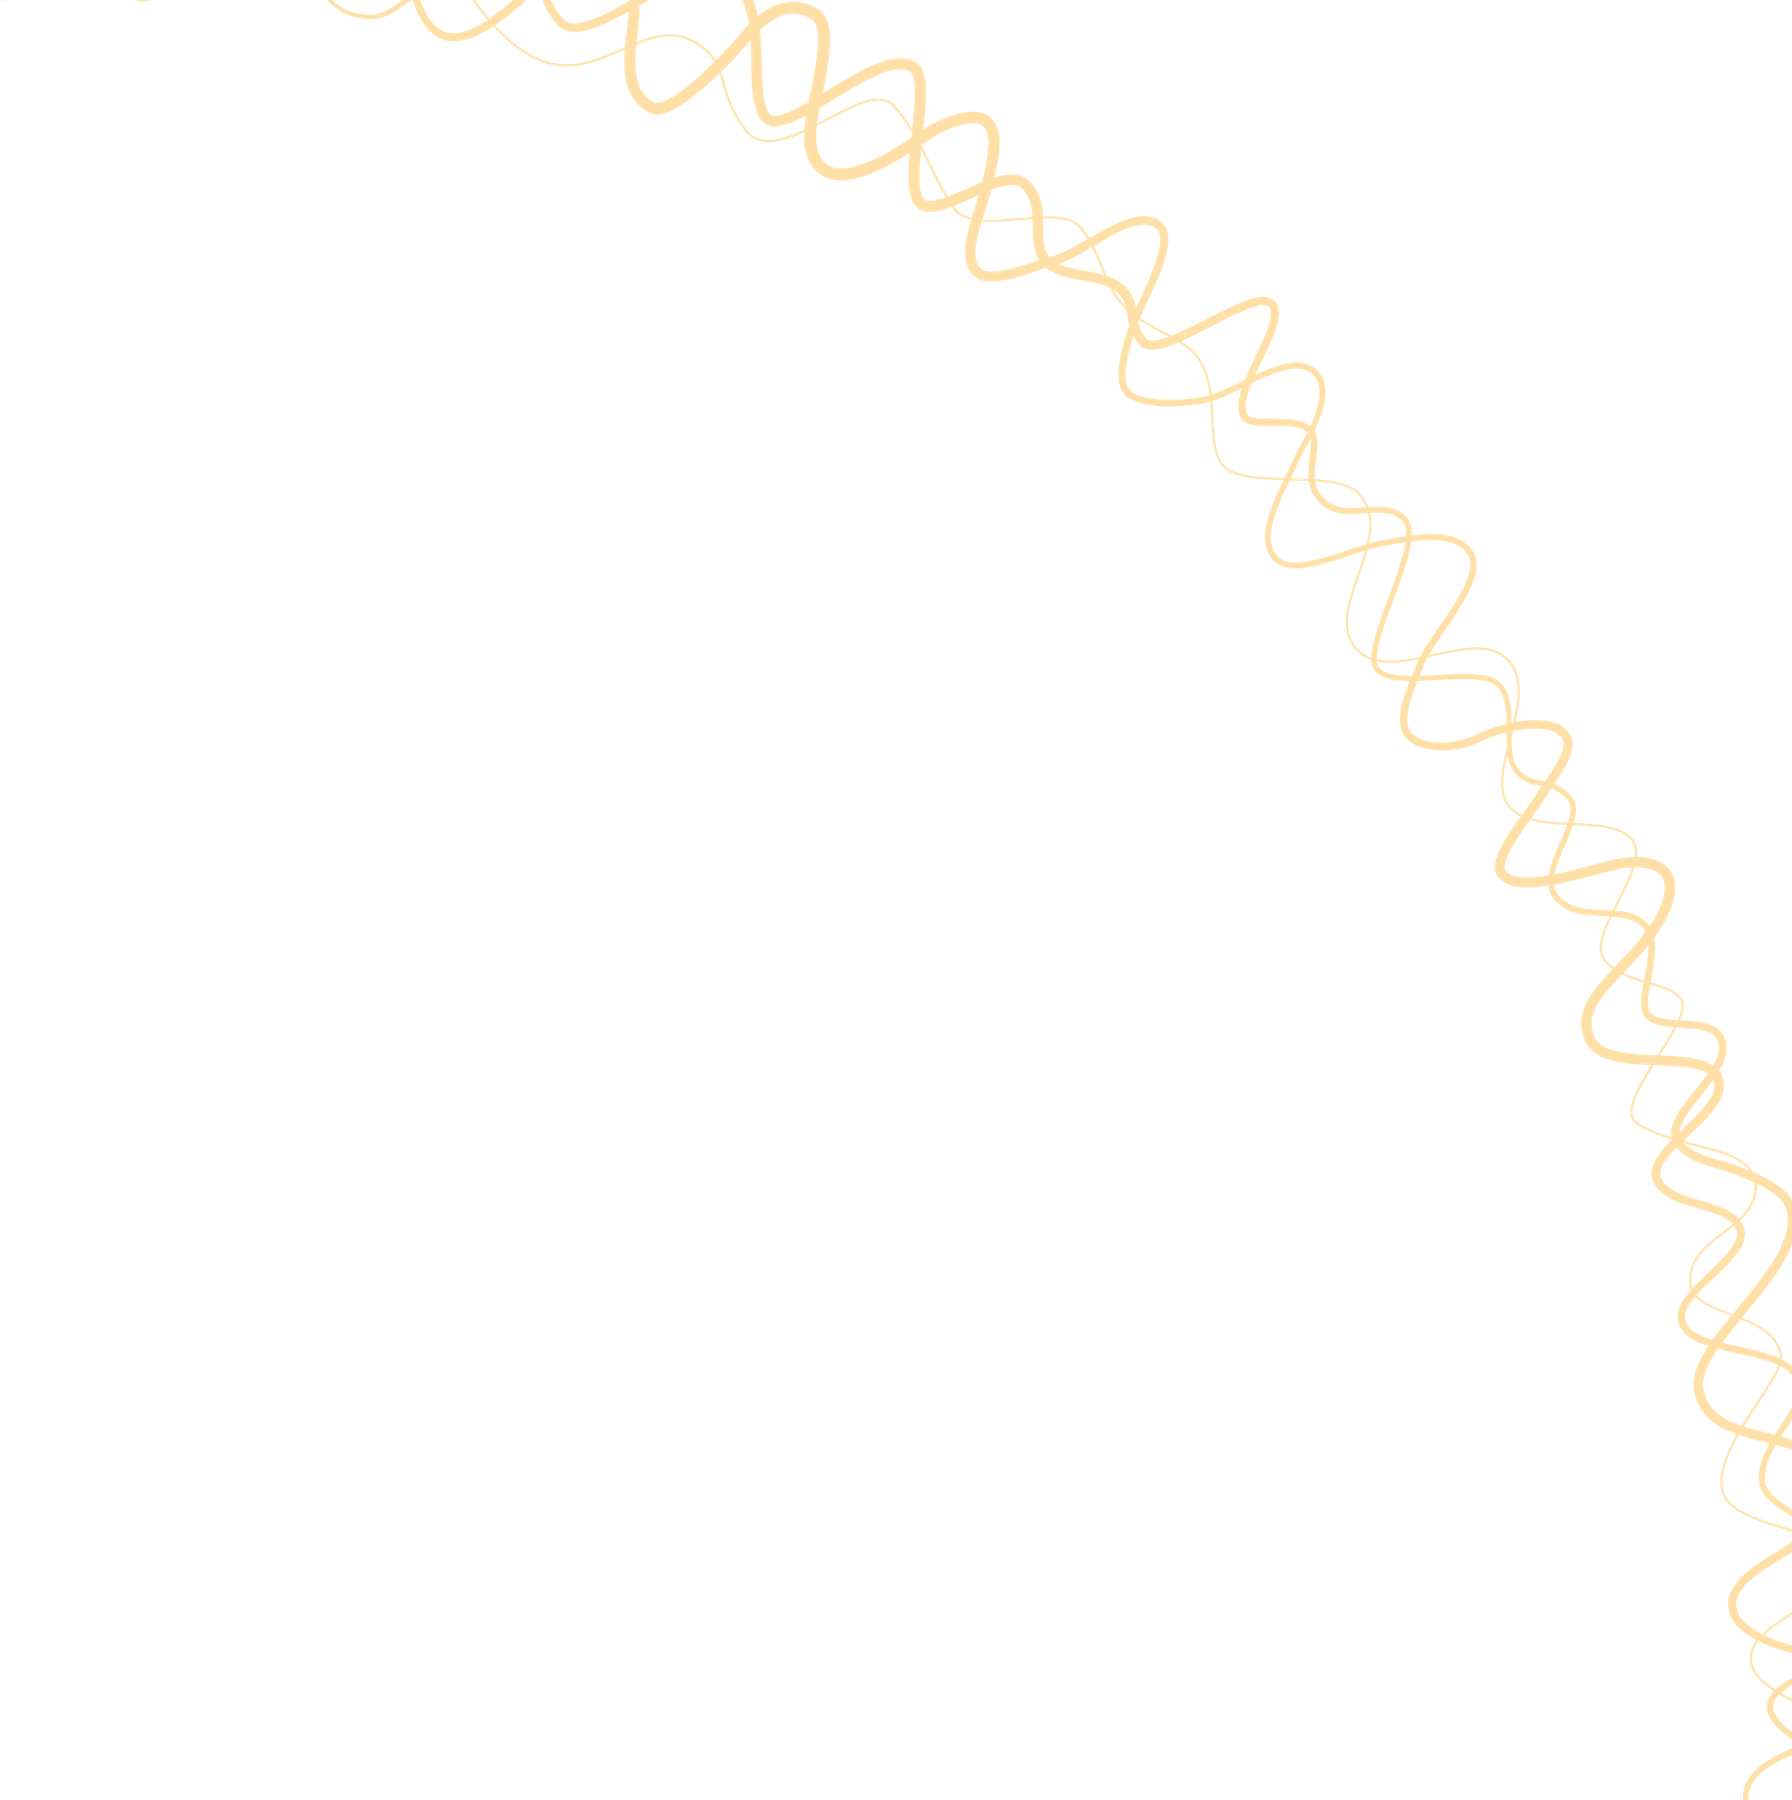
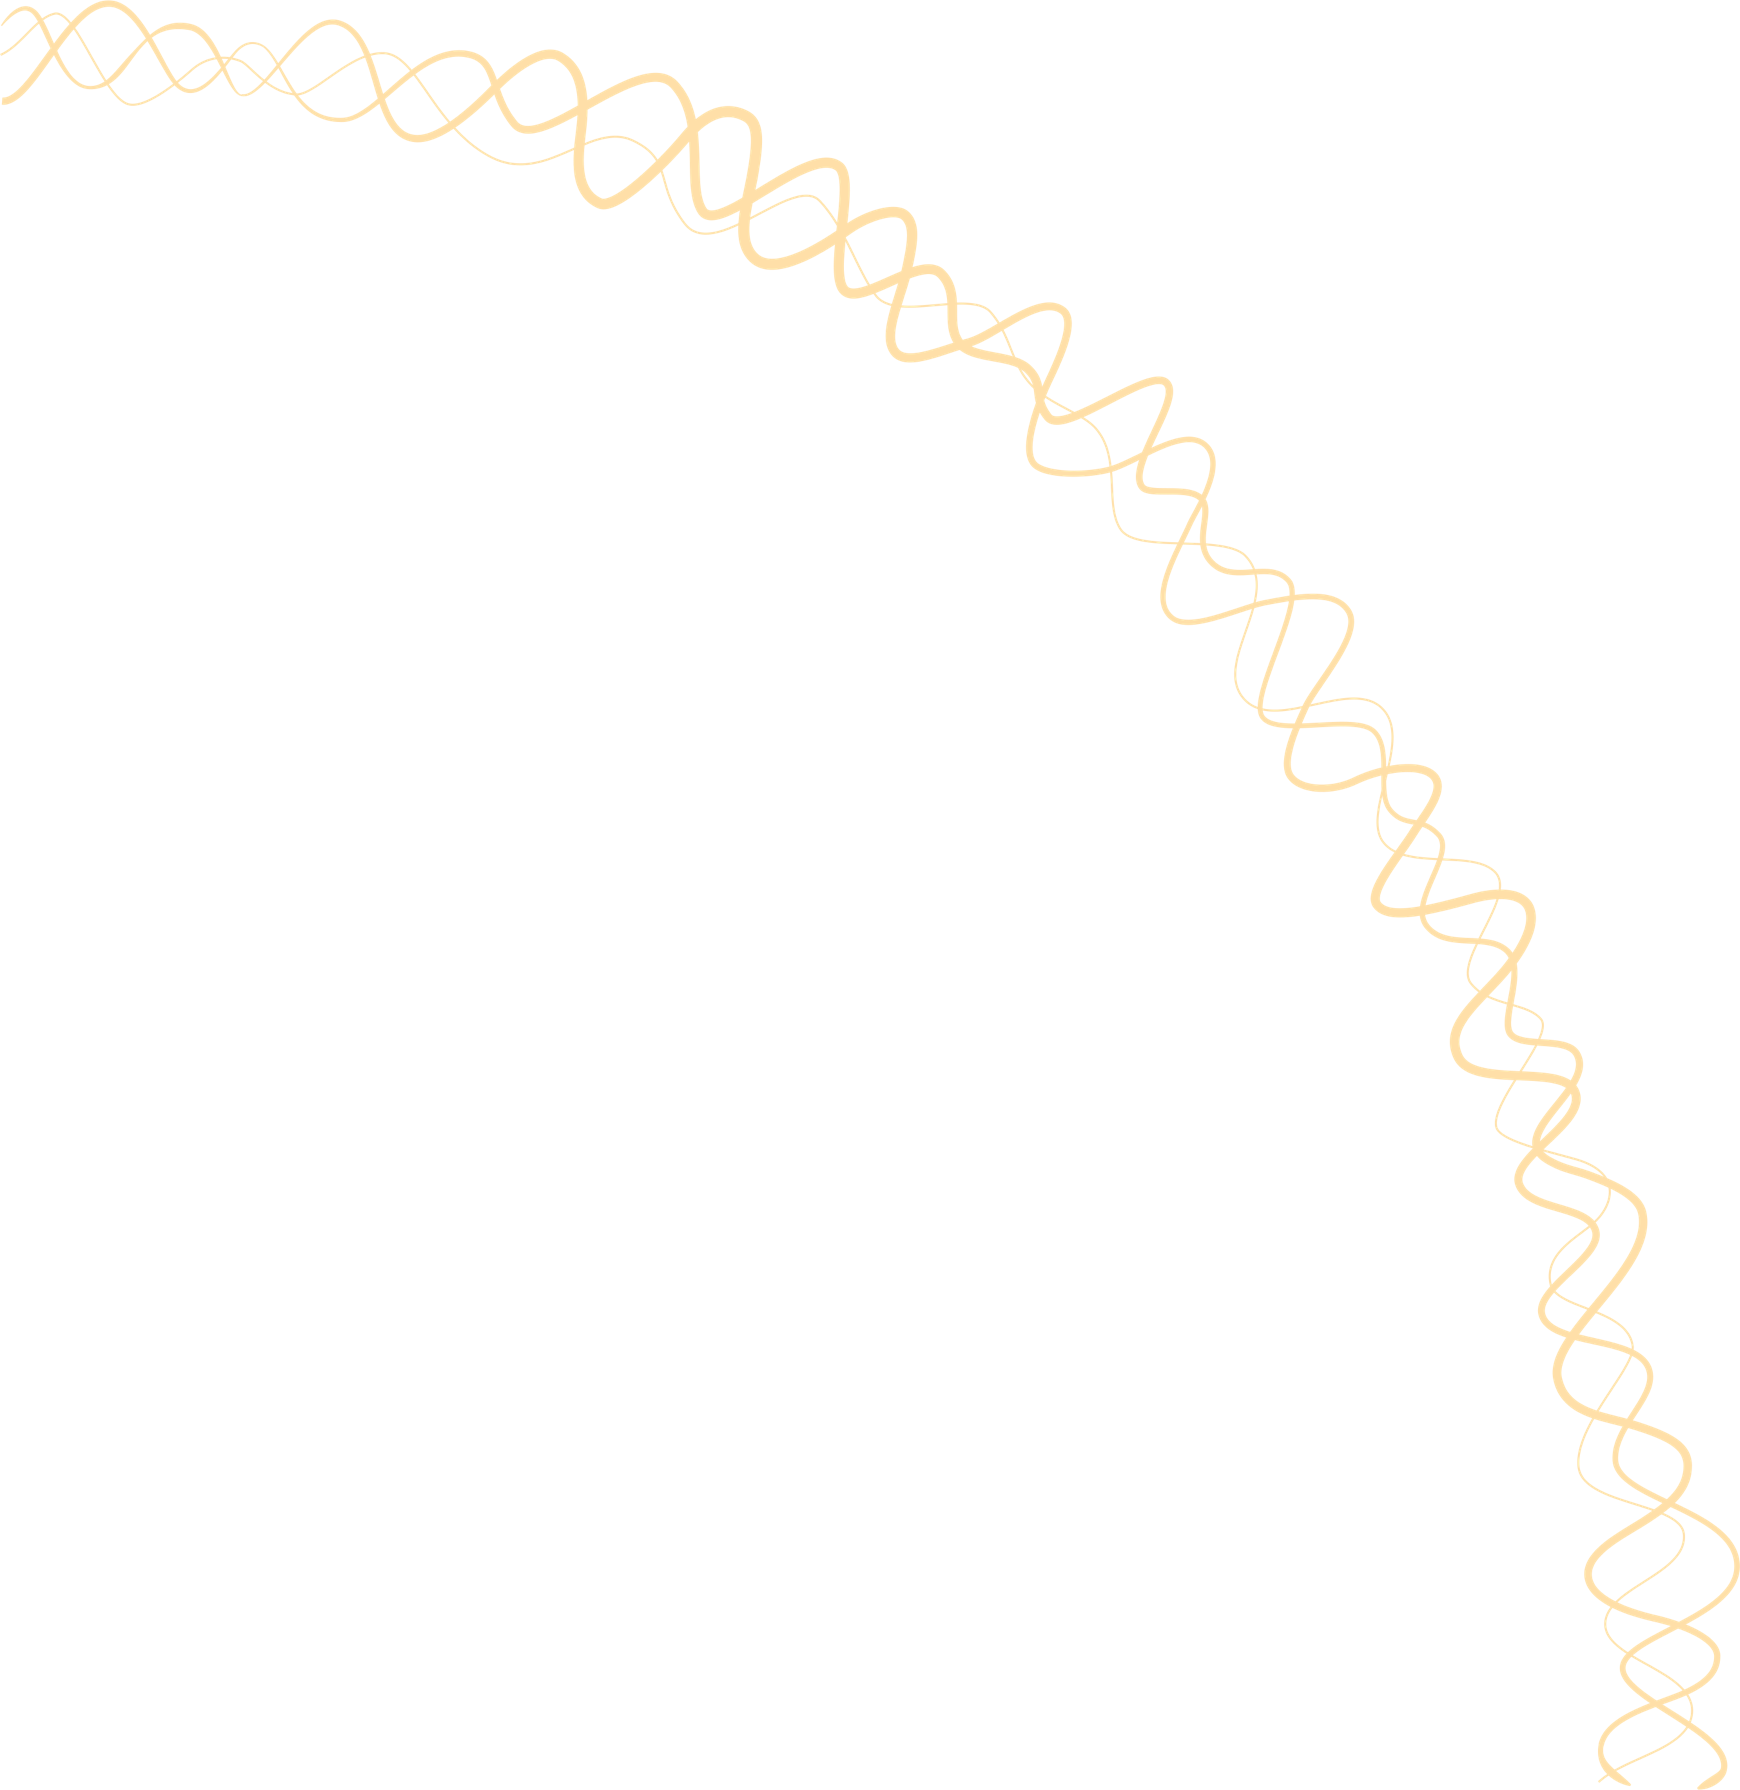
wip

Changed region(s): [[0.0, 0.0, 1.0, 1.0], [0.9, 0.9832, 0.931, 1.0]]

diff --git a/css/master.css b/css/master.css
@@ -27,7 +27,7 @@ body {
   overflow-x: hidden;
   overflow-y: hidden;
   height: 100vh;
-  /* background-image: url(../img/back.png); */
+  background-image: url(../img/back.png);
   background size: cover;
   background-repeat: no-repeat;
 }
@@ -112,9 +112,9 @@ a {
 
 .map img:nth-child(2) {
   position: absolute;
-  top: 0vw;
-  left: 36vw;
-  width: 57vw;
+  top: -3.9vw;
+  left: 35.8vw;
+  width: 60.5vw;
 }
 
 .map img:nth-child(3) {
